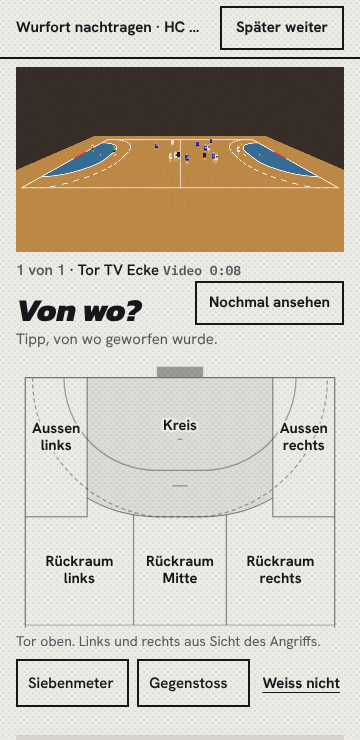
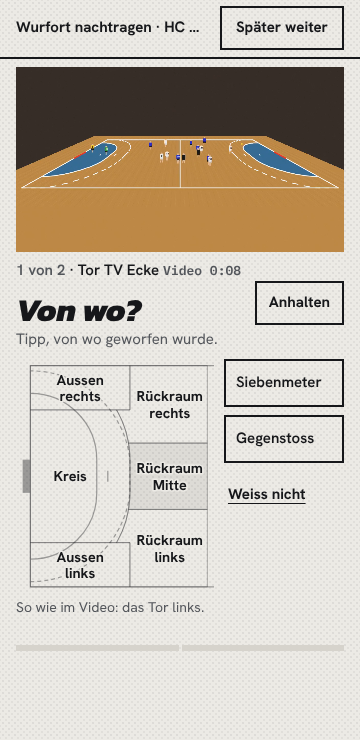
Screenshots of «Von wo?» with the goal left and right (360, 390, 1280); words on the turned court at 14 px; OPEN_QUESTIONS Q-REC-SHOTZONE after the real-clip test
Claude-Session: https://claude.ai/code/session_01H3gogAAXLogd3cuATJwVN8

diff --git a/apps/web/src/components/anlauf/shot-spot-picker.tsx b/apps/web/src/components/anlauf/shot-spot-picker.tsx
@@ -50,7 +50,8 @@ export function ShotSpotPicker({
   const court = useRef<SVGGElement>(null);
   const side = orientation !== "top";
   const mark = (z: SpotZone) => (current === z ? t("current") : null);
-  const font = side ? 1.2 : 0.95;
+  // words at 14 px and more on a 360 px phone, also on the court turned on its side
+  const font = side ? 1.3 : 0.95;
 
   const tap = (zone: (typeof COURT_ZONES)[number], e: MouseEvent<SVGElement>) => {
     if (disabled) return;

diff --git a/docs/OPEN_QUESTIONS.md b/docs/OPEN_QUESTIONS.md
@@ -380,6 +380,19 @@ Weaknesses of the recognition, recorded here and not fixed in the interface work
   is not measured, the estimate is 23 s per goal question instead of 18 s; (4) the estimate from
   the tracks stays weak while candidates come 4 to 7 s late (Q-REC-CANDTIME) and people beside the
   court are tracked (Q-REC-OFFCOURT).
+  *After the real-clip test of «Von wo?» (nine goals, phone, 22 questions in 6 to 9 minutes):*
+  only places a person gave make the three things and count as «mit Wurfort» (`by_coach`); an
+  estimate is drawn hollow with «geschätzt» and counts nowhere; «Weiss nicht» is missing and asked
+  again in «Wurfort nachtragen». The estimate is no longer offered (it was wrong in 4 of 7
+  recognisable goals, 6 of 9 said «Kreis»); it stays in the data as estimated. With a court a
+  person confirmed, the small court lies as the camera sees it: `GET …/goals/{event}/view` gives
+  the attacked goal's side in the picture from the attackers' direction and the court-to-image
+  homography (any long side, any panning; null without a confirmed court or tracks, then the goal
+  is at the top). The clip loops during the step. Scenes of goals from candidates run from 12 s
+  before to 2 s after (`matches.scene_window`, one rule for every view). *Left:* the side comes
+  from the attackers' mean position in the 10 s before the candidate time; in a fast break that
+  window can still hold the other half (then the court lies the wrong way round); the estimate
+  waits for better recognition (Q-REC-CANDTIME, Q-REC-OFFCOURT).
 - **Q-REC-CALQUALITY The court's quality is not measured.** `observe.py` sets the reprojection
   error to 0 and the confidence to 1.0, also for a court 2 to 5 m off; until it is measured the
   interface never treats the court as sure and always asks for it (done, E03).
